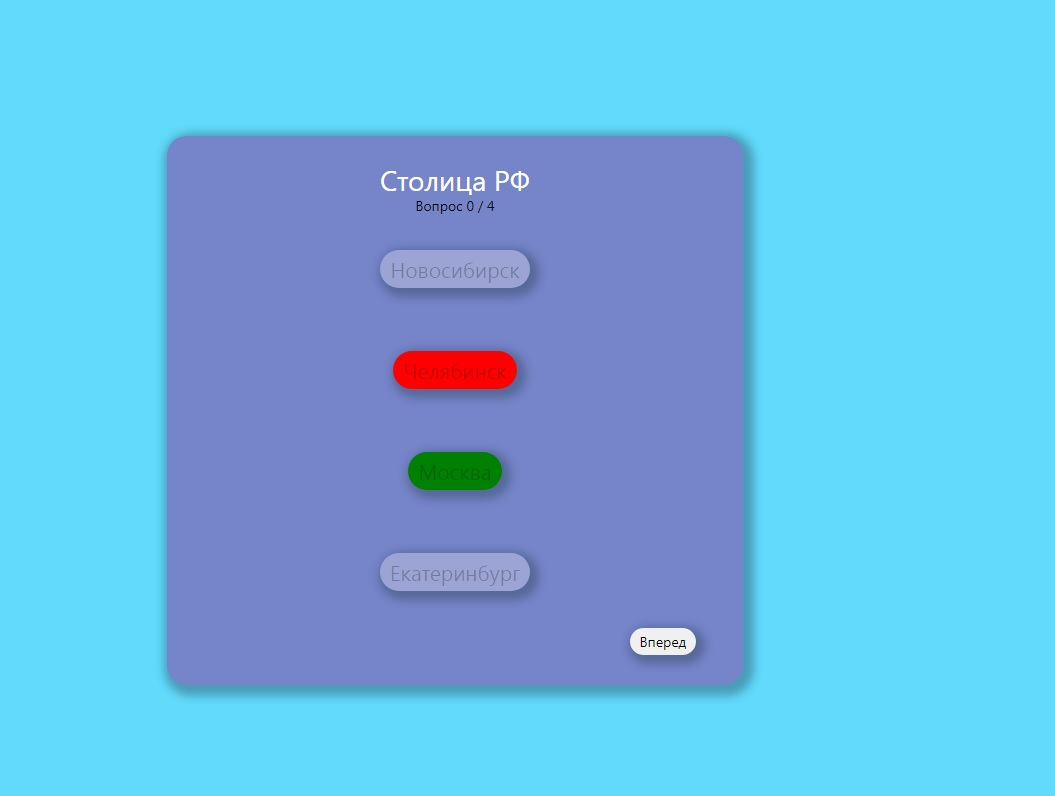
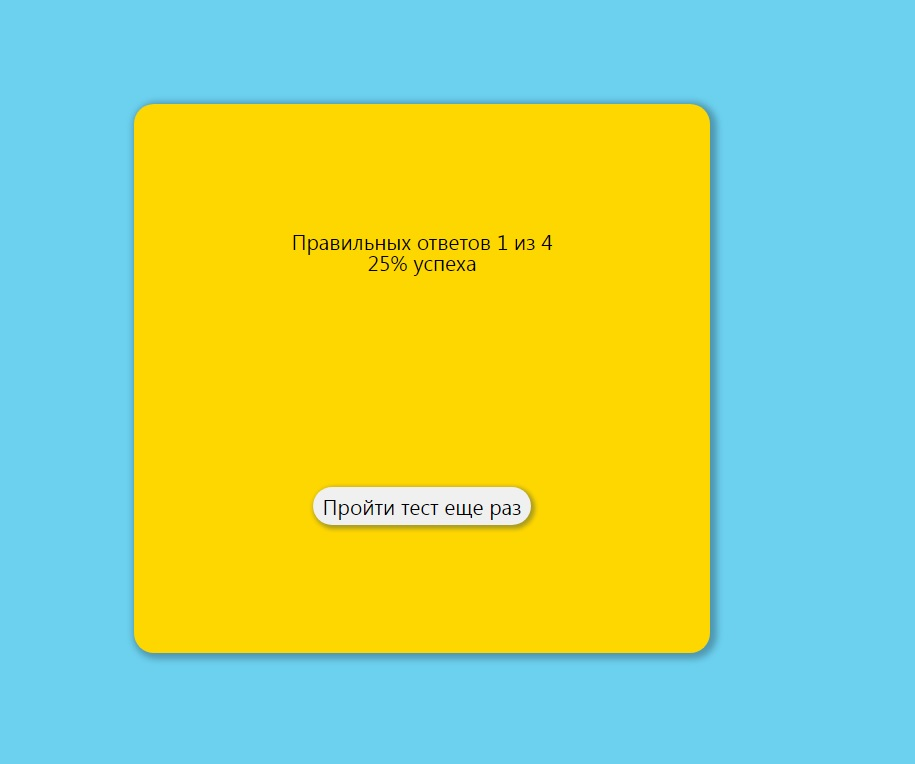
Доработана верстка

diff --git a/src/Components/ButtonsAnswer/ButtonsAnswer.tsx b/src/Components/ButtonsAnswer/ButtonsAnswer.tsx
@@ -13,6 +13,9 @@ const ButtonsAnswer: FC<IButtonsAnswer> = ({ answers, answersHandler }) => {
   // Отключаем кнопки после выбора ответа
   const [btnStatus, setBtnStatus] = React.useState<boolean>(false);
 
+  const btnColorCorect = "#9cea15f3";
+  const BtnColorWrong = "#dc143c";
+
   //   Формируем массив кнопок
   const allBtn = React.useRef<any>(null);
   const arrBtns = React.useRef<any>([]);
@@ -27,7 +30,7 @@ const ButtonsAnswer: FC<IButtonsAnswer> = ({ answers, answersHandler }) => {
 
     //  Обнуляем фон элементов
     arrBtns.current.map((elem: any) => {
-      elem.style.backgroundColor = "";
+      elem.style.backgroundColor = null;
     });
   }, [answers, arrBtns]);
 
@@ -43,7 +46,7 @@ const ButtonsAnswer: FC<IButtonsAnswer> = ({ answers, answersHandler }) => {
     const target = checkBtn.currentTarget.value;
 
     checkBtn.target.style.backgroundColor = `${
-      target === "true" ? "green" : "red"
+      target === "true" ? btnColorCorect : BtnColorWrong
     }`;
   }
 
@@ -51,7 +54,7 @@ const ButtonsAnswer: FC<IButtonsAnswer> = ({ answers, answersHandler }) => {
   function colorazeCorrectBtn() {
     arrBtns.current.map((elem: any) => {
       if (elem.value === "true") {
-        elem.style.backgroundColor = "green";
+        elem.style.backgroundColor = btnColorCorect;
       }
     });
   }

diff --git a/src/Components/Buttons/BtnNext/btnNext.module.css b/src/Components/Buttons/BtnNext/btnNext.module.css
@@ -1,16 +1,16 @@
 .btn {
-   font-size: 1em;
-   padding: 4px 10px;
-   border-radius: 20px;
-   box-shadow: 4px 4px 8px 5px rgba(34, 60, 80, 0.38);
-   transition: 300ms;
-   cursor: pointer;
- }
- 
- .btn:active {
-   box-shadow: 0px 0px 0px 0px rgba(34, 60, 80, 0.38);
- }
- 
- .btn:hover {
-   border: 1px solid red;
- }
+  font-size: 1em;
+  padding: 4px 10px;
+  border-radius: 20px;
+  box-shadow: 2px 2px 4px 2px rgba(34, 60, 80, 0.38);
+  transition: 300ms;
+  cursor: pointer;
+}
+
+.btn:active {
+  box-shadow: 0px 0px 0px 0px rgba(34, 60, 80, 0.38);
+}
+
+.btn:hover {
+  border: 1px solid red;
+}

diff --git a/src/Components/ButtonsAnswer/buttonsAnswer.module.css b/src/Components/ButtonsAnswer/buttonsAnswer.module.css
@@ -12,9 +12,13 @@
   height: auto;
   padding: 5px 10px;
   border-radius: 20px;
-  box-shadow: 4px 4px 8px 5px rgba(34, 60, 80, 0.38);
+  box-shadow: 2px 2px 4px 2px rgba(34, 60, 80, 0.38);
   transition: 300ms;
   cursor: pointer;
+}
+
+.button[disabled] {
+  color: black;
 }
 
 .button:active {
@@ -22,5 +26,5 @@
 }
 
 .button:hover {
-  border: 1px solid rgb(20, 21, 20);
+  border: 1px solid red;
 }

diff --git a/src/Components/QuestionsBody/questionsLog.module.css b/src/Components/QuestionsBody/questionsLog.module.css
@@ -2,13 +2,13 @@
   position: relative;
   width: 20vw;
   height: 50vh;
-  background-color: rgb(118, 132, 201);
+  background-color: #ffd700;
   border-radius: 20px;
   display: flex;
   justify-content: space-between;
   align-items: center;
   padding: 20px 20px;
-  box-shadow: 4px 4px 8px 7px rgba(34, 60, 80, 0.38);
+  box-shadow: 3px 2px 6px 4px rgba(34, 60, 80, 0.38);
 }
 
 .body_quest {

diff --git a/src/Components/Buttons/RestartTestBtn/restartTestBtn.module.css b/src/Components/Buttons/RestartTestBtn/restartTestBtn.module.css
@@ -2,7 +2,7 @@
   font-size: 1.5em;
   padding: 5px 10px;
   border-radius: 20px;
-  box-shadow: 4px 4px 8px 5px rgba(34, 60, 80, 0.38);
+  box-shadow: 2px 2px 4px 2px rgba(34, 60, 80, 0.38);
   transition: 300ms;
   cursor: pointer;
 }

diff --git a/src/App/app.module.css b/src/App/app.module.css
@@ -4,7 +4,7 @@
   position: fixed;
   box-sizing: border-box;
   min-width: 320px;
-  background-color: rgb(97, 218, 251);
+  background-color: #6cd1ef;
 
   display: flex;
   justify-content: center;

diff --git a/src/Components/TotalAnswers/totalAnswers.module.css b/src/Components/TotalAnswers/totalAnswers.module.css
@@ -1,5 +1,4 @@
 .title {
   font-size: 1.5em;
   text-align: center;
-  color: white;
 }

diff --git a/src/Components/Questions/questions.module.css b/src/Components/Questions/questions.module.css
@@ -8,5 +8,4 @@
 
 .title {
   font-size: 2em;
-  color: white;
 }
